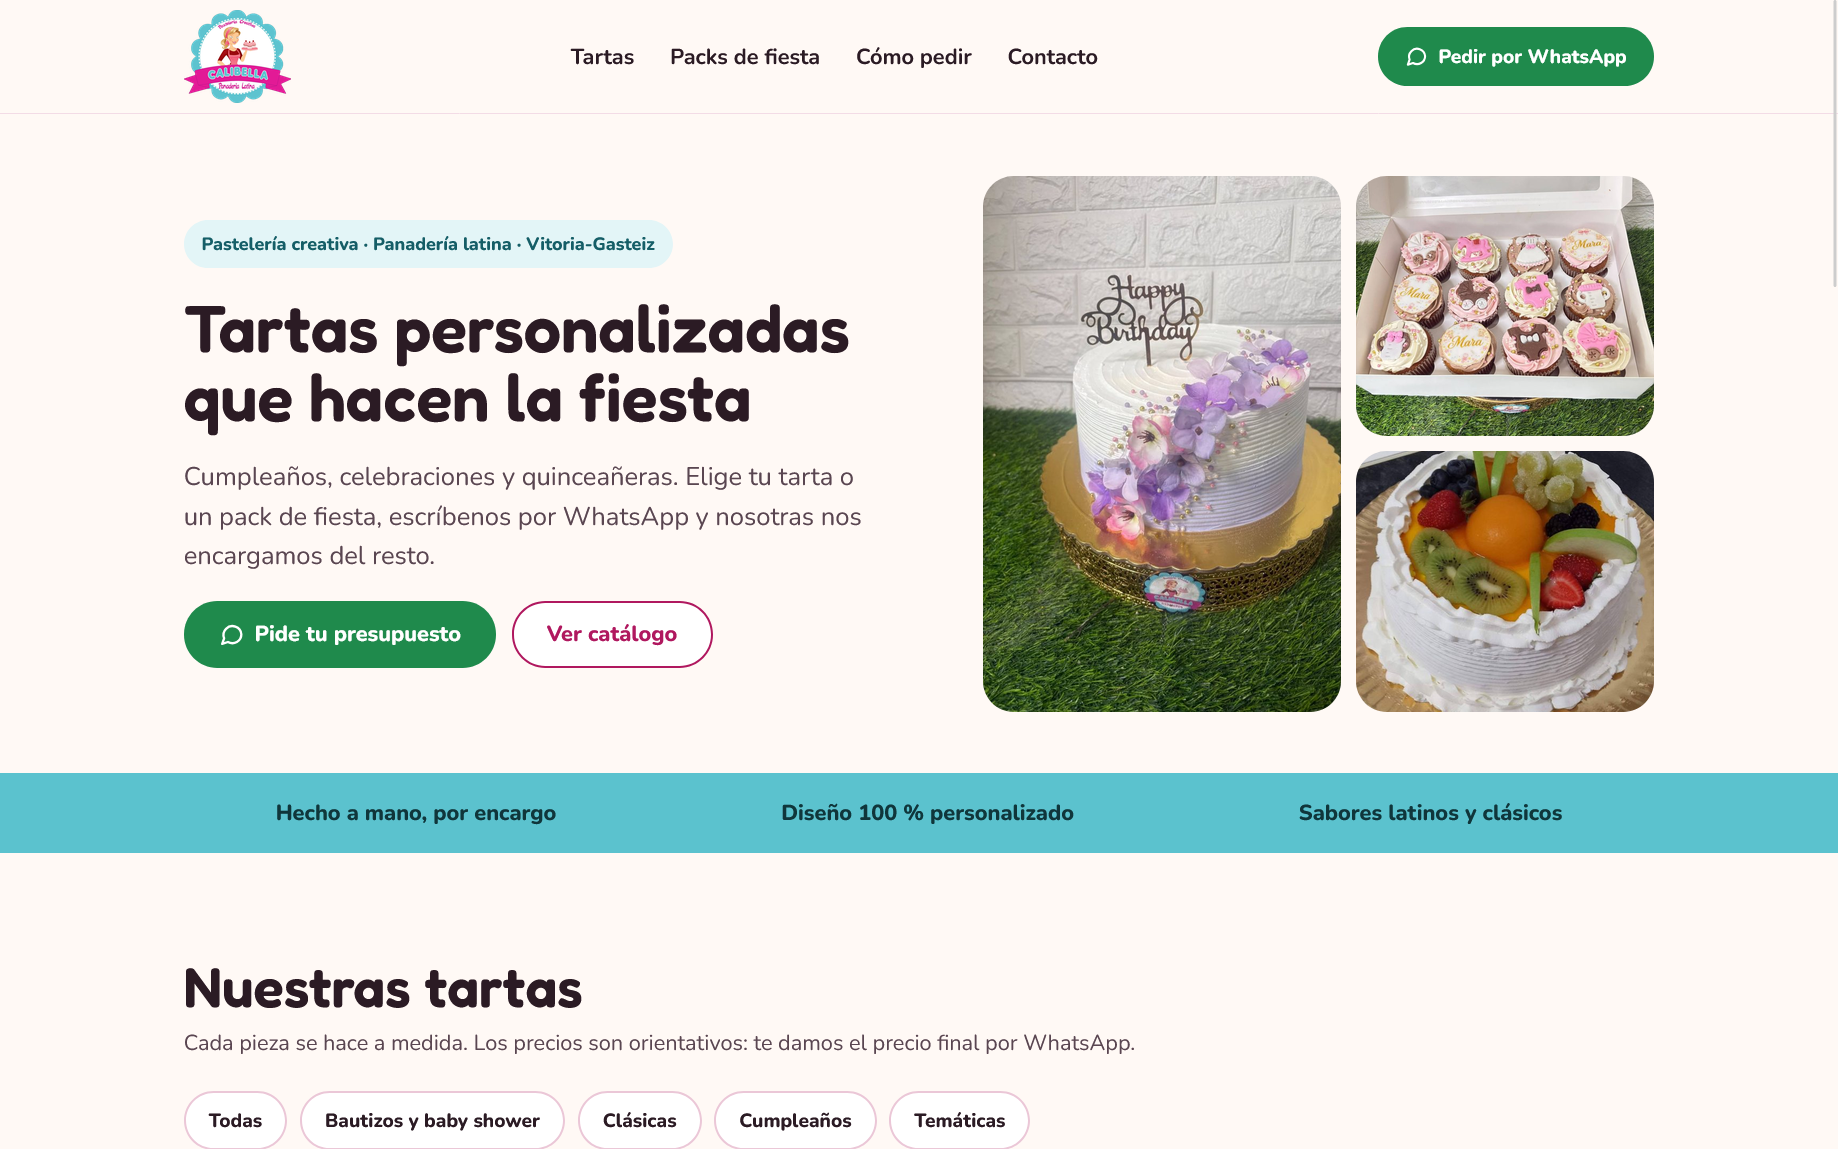
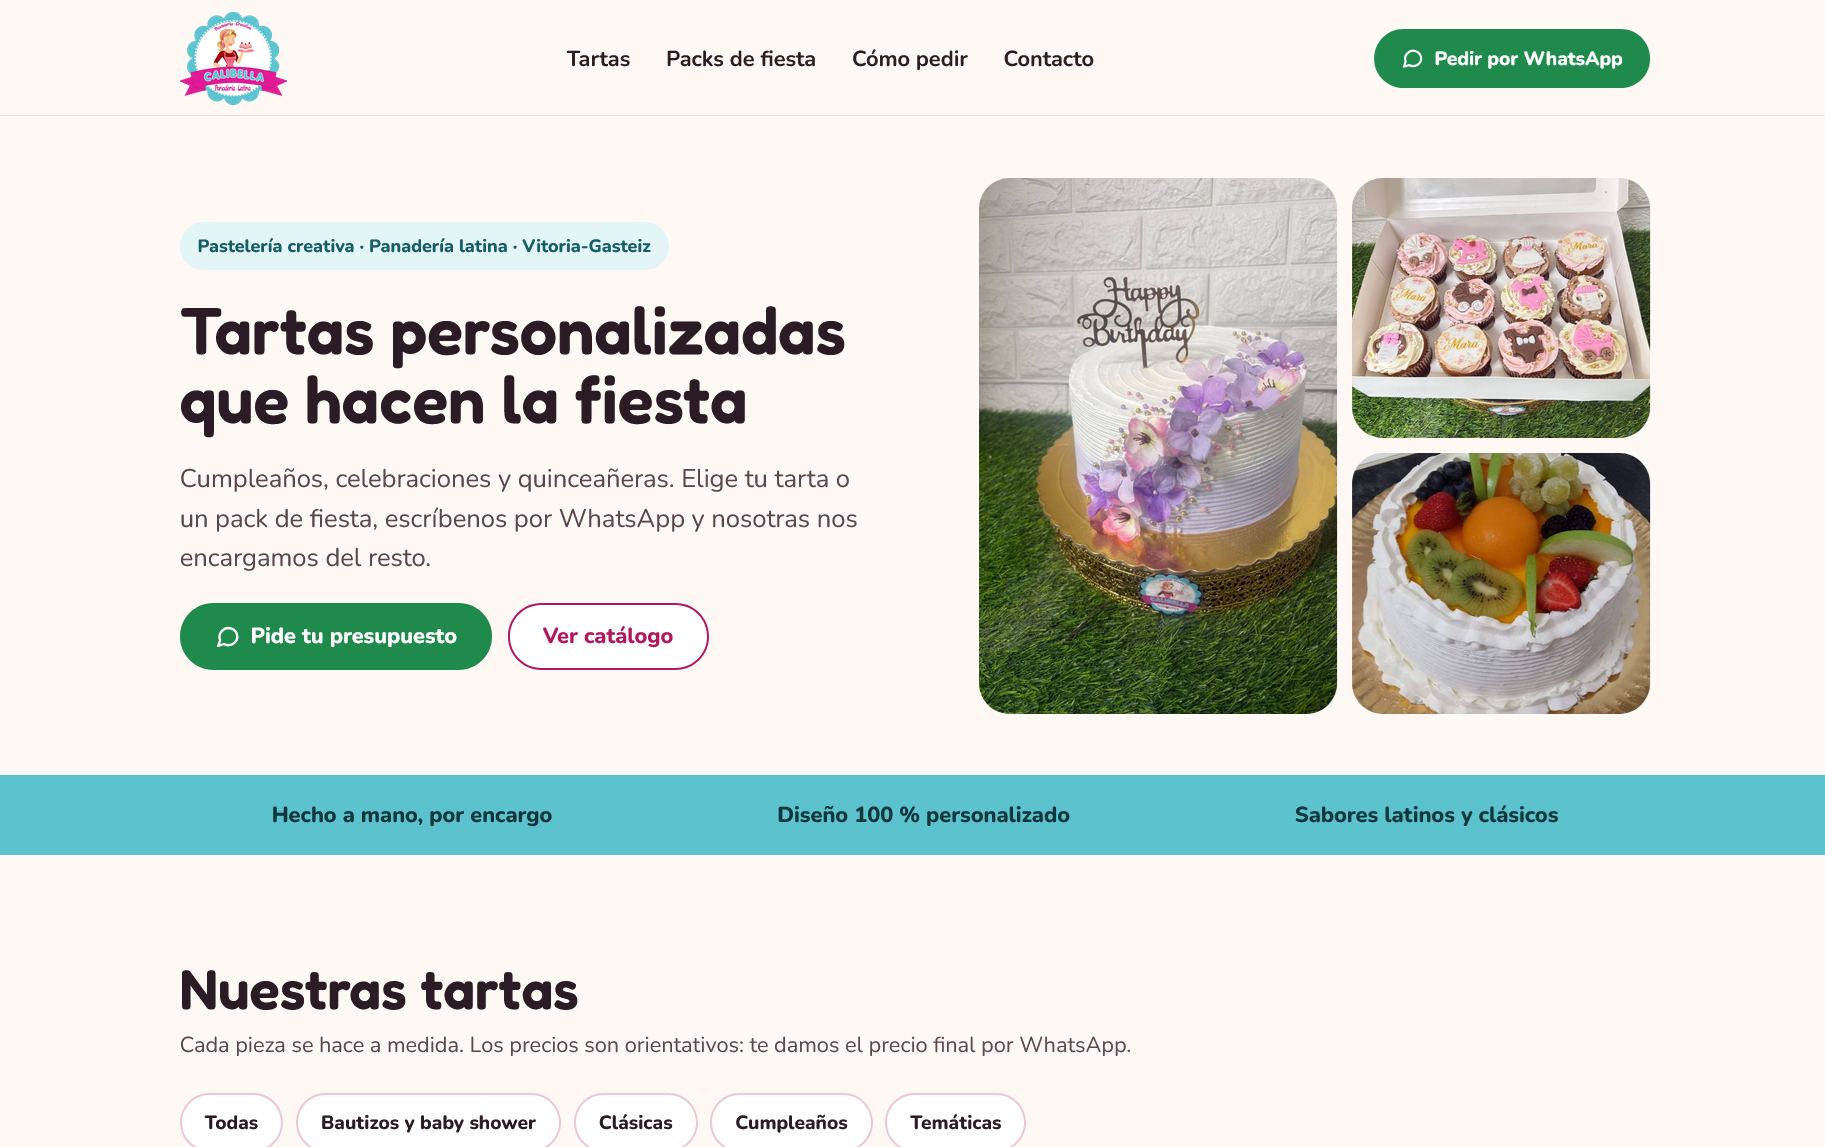
Limita y centra el ancho del contenido

diff --git a/index.html b/index.html
@@ -48,7 +48,7 @@
                     <p>Catálogo online para Calibella, pastelería de Vitoria-Gasteiz. Diseñé y desarrollé en WordPress
                         una
                         web que presenta sus productos y lleva a los clientes a pedir por WhatsApp o por teléfono.</p>
-                    <ul>
+                    <ul class="tech-list">
                         <li>WordPress</li>
                         <li>PHP</li>
                         <li>CSS</li>
@@ -64,7 +64,7 @@
                     <p>Landing page para ofrecer auditorías SEO y webs en WordPress a pymes de Miranda de Ebro y
                         Vitoria-Gasteiz. La maqueté en Webflow con una estructura pensada para convertir visitas en
                         contactos.</p>
-                    <ul>
+                    <ul class="tech-list">
                         <li>Webflow</li>
                         <li>Diseño responsive</li>
                         <li>SEO on-page</li>

diff --git a/css/styles.css b/css/styles.css
@@ -88,6 +88,8 @@ header {
     align-items: center;
     padding: 1rem 1.5rem;
     flex-wrap: wrap;
+    max-width: 1100px;
+    margin: 0 auto;
 }
 
 nav ul {
@@ -109,6 +111,8 @@ nav a {
 
 section {
     padding: 4rem 1.5rem;
+    max-width: 1100px;
+    margin: 0 auto;
 }
 
 .hero-buttons {
@@ -135,6 +139,22 @@ section {
     object-fit: cover;
     object-position: top;
     border-radius: 0.5rem;
+}
+
+.tech-list {
+    display: flex;
+    flex-wrap: wrap;
+    gap: 0.5rem;
+    list-style: none;
+    padding: 0;
+    margin: 1rem 0;
+}
+
+.tech-list li {
+    background-color: var(--color-accent);
+    padding: 0.25rem 0.75rem;
+    border-radius: 999px;
+    font-size: 0.875rem;
 }
 
 /* 5. Footer */
